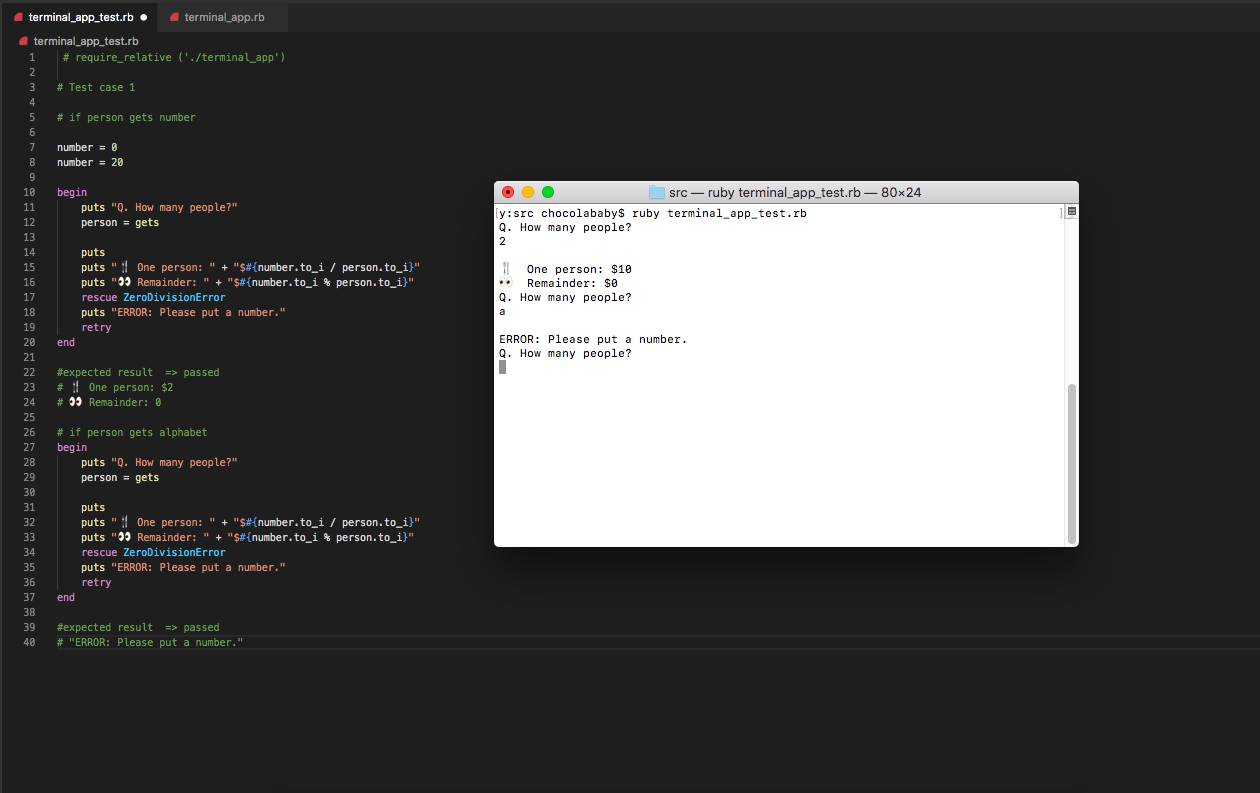
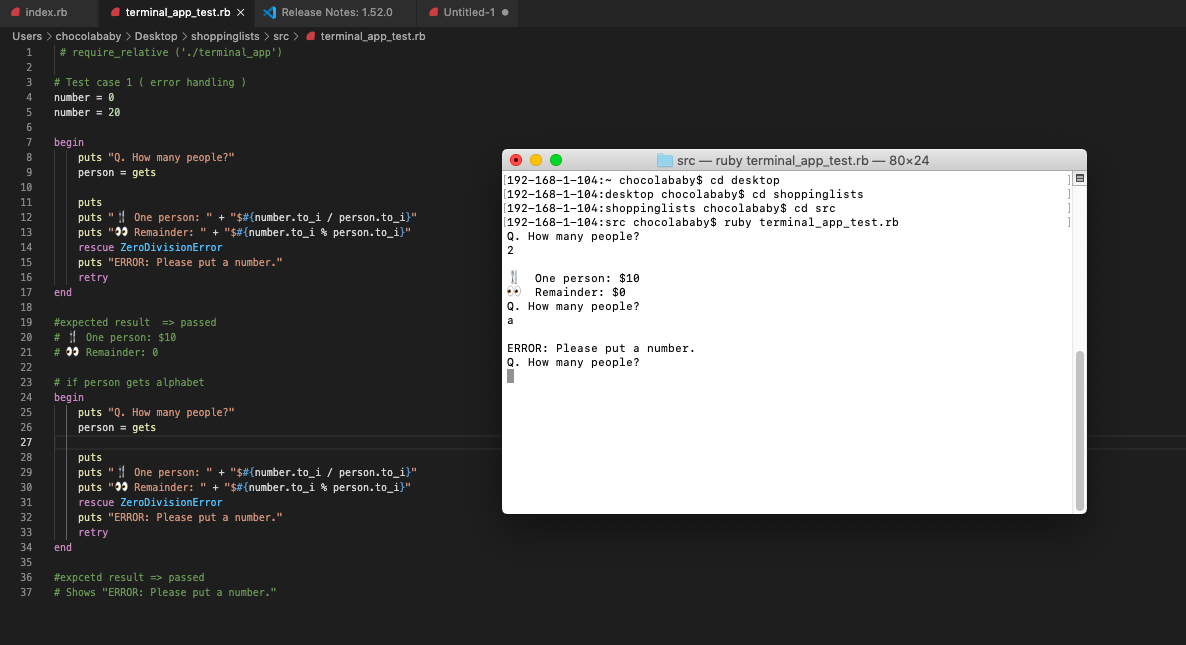
created methods.rb

diff --git a/src/methods.rb b/src/methods.rb
@@ -1,0 +1,103 @@
+def menu_input_select
+     puts "     Press 1) To show the list"
+     puts "     Press 2) To add items"
+     puts "     Press 3) To delete items"
+     puts "     Press 4) To split the total price"
+     puts "     Press 5) To quit"
+     input = gets.chomp.to_i
+    return input
+end
+
+
+def total
+    if @number = @lists.values.inject(:+)
+    puts "  Total items: #{@lists.length}" + " / " + "Total Price: $#{@number}"
+    puts
+
+    else @number == 0 or @lists.length == 0
+    puts "   Total items: #{@lists.length}" + " / " + "Total Price: $0"
+    puts
+    end
+ end
+
+ def shoppinglists
+    puts "---------------------------------------------"
+    puts "          ⭐ Shopping Lists ⭐          ".bold
+    puts "---------------------------------------------"
+ end
+
+ def menu1
+     puts "            --------------- "
+     puts
+
+
+ def listitems
+     @lists.each_with_index do |(key, val), i|
+     puts "          #{i+1}.  #{key} $#{val}".italic
+    end
+ return
+end
+
+     puts listitems
+
+     puts
+     puts "            --------------- "
+end
+
+def menu2
+    puts "              Add items".light_blue.bold
+    puts
+    puts "Q. What do you want to add?"
+    key = gets.chomp
+    
+    puts
+    puts "Q. How much is the price?"
+    val = gets.to_f
+    
+    puts
+    puts "#{key}".green.italic + " / " + "$#{val}".green.italic + " is added to the list."
+
+    @lists.store(key, val)
+end
+
+def menu3 
+    puts "              Delete items".light_blue.bold
+    puts
+
+    puts "Q. Which items do you want to delete?"
+  
+     begin
+     deleteitem = gets.chomp
+     
+     @lists.fetch("#{deleteitem}")
+  
+     @lists.delete("#{deleteitem}")
+     puts
+     puts "#{deleteitem}".green.italic + " is deleted in the list."
+  
+     rescue
+     puts "#{deleteitem} is not found in the list."
+     end
+ end
+
+
+ def menu4
+    puts "              Share".light_blue.bold
+
+    begin
+    puts "Q. How many people?"
+    person = gets.to_f
+    puts
+    puts "🍴　One person: " + "$#{@number.to_i / person.to_i}".green.italic
+    puts "👀　Remainder: " + "$#{@number.to_i % person.to_i}".green.italic
+    rescue ZeroDivisionError
+    puts "ERROR: Please put a number.".red
+    retry
+    end
+end
+
+def menu5
+    puts  @a.asciify('Enjoy').green
+    puts  @a.asciify('Shopping!').magenta
+    exit
+end

diff --git a/src/index.rb b/src/index.rb
@@ -1,0 +1,55 @@
+require_relative('./methods')
+require('colorize')
+require('httparty')
+require('tty-prompt')
+require('artii')
+
+prompt = TTY::Prompt.new
+@a = Artii::Base.new
+
+
+@lists = {}
+@number = {}
+$artii = {}
+    
+  while true
+
+   shoppinglists
+   total
+   menu_input = menu_input_select
+   system "clear"
+  
+   case menu_input
+   when 1
+     
+     shoppinglists
+     total
+     menu1
+       
+  when 2  
+     shoppinglists
+     total
+     menu2
+
+  when 3 
+    shoppinglists
+    total
+    menu3
+
+  
+  when 4
+    menu4
+  
+  when 5 
+    menu5
+
+
+  else
+     puts "Choose  1 to 5.".red
+  
+  end
+    puts
+    puts "⏪ " + "Press any key to go back to Top menu".blink
+    gets
+    system "clear"
+  end

diff --git a/src/terminal_app_test.rb b/src/terminal_app_test.rb
@@ -17,7 +17,7 @@ begin
 end
 
 #expected result  => passed
-# 🍴　One person: $2
+# 🍴　One person: $10
 # 👀　Remainder: 0
 
 # if person gets alphabet
@@ -32,6 +32,9 @@ begin
     puts "ERROR: Please put a number."
     retry
 end
+
+#expcetd result => passed
+# Shows "ERROR: Please put a number."
 
 # Test Case 2 ( loop )
 while true
